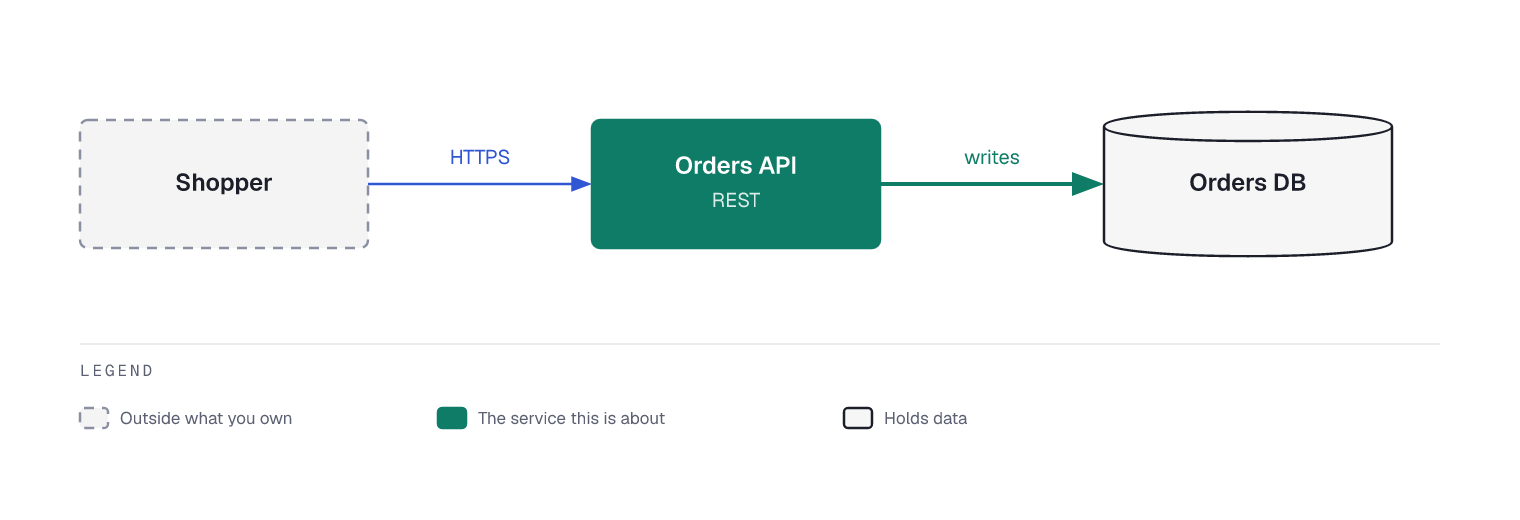
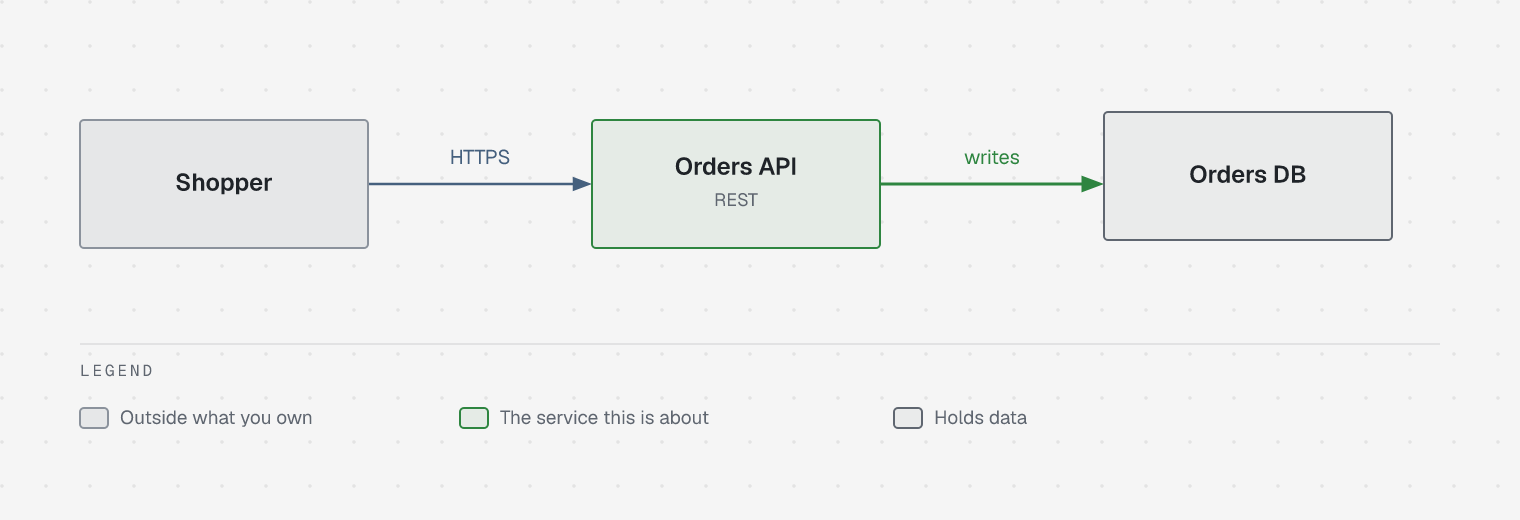
After merging main: two more guide recipes stop writing white text on the focal box; README diagrams re-rendered in the new built-in look

diff --git a/guide/dependency.md b/guide/dependency.md
@@ -11,7 +11,7 @@ Shows what depends on what among packages, modules or services. Draw it when the
 - One box per package or service, never per file. `sub=` is its path (`packages/ui-kit`) or, for a third-party one, version and registry (`v3.23 · npm`). `tag=` is its kind (APP, SVC, PKG, EXT).
 - Styles: `node` for your own, `cloud` for third party, `focal` for the most used. Nothing else: a box that depends on nothing is shown by sitting on the lowest rank, not by a style (`store` means data, and many looks draw it as a cylinder).
 - Icons are optional here; `icon=` on the kind (`pod` or `service` for SVC, `bucket` for PKG, `cloud` for EXT) only if every box gets one.
-- Every box shows how many depend on it, in its top-right corner, including "0 in" on the apps: `rect "4 in" at <box right − 36>,<box top + 8> 28x12 radius=2 fill=none stroke=ink/0.4 sw=0.8 title.font=mono title.size=8 title.weight=400 overlap=ok`. These counts are why the diagram exists; do not leave them out. `overlap=ok` is needed because the chip sits on its box. On the `focal` box an outlined chip is unreadable: write the count as plain text instead, `text "4 in" at <box right − 22>,<box top + 17> style=small size=8 color=#ffffff anchor=middle`.
+- Every box shows how many depend on it, in its top-right corner, including "0 in" on the apps: `rect "4 in" at <box right − 36>,<box top + 8> 28x12 radius=2 fill=none stroke=ink/0.4 sw=0.8 title.font=mono title.size=8 title.weight=400 overlap=ok`. These counts are why the diagram exists; do not leave them out. `overlap=ok` is needed because the chip sits on its box. On the `focal` box keep the same chip with `stroke=accent/0.5`; only in a look that fills `focal` with solid accent is an outlined chip unreadable, and there write the count as plain text instead: `text "4 in" at <box right − 22>,<box top + 17> style=small size=8 color=#ffffff anchor=middle`.
 
 ## Arrows
 

diff --git a/guide/deployment.md b/guide/deployment.md
@@ -23,7 +23,7 @@ text "v2.4.1" at 240,336 style=small anchor=end
 ```
 
 - Host: 200 wide. Height 84 with one chip, plus 32 for each further chip. `tag=` is the kind of host (POD, VM, CDN, MANAGED). Leave the host's own text empty, or it is centred on top of the chips.
-- Icon: `icon=` names from `fastdraw sizes` (container, server, vm, database, bucket, gateway, cdn), a 20x20 `icon` shape at host x+12, top+28, one per host or none. The name starts at host x+40, baseline top+43. On a `focal` host the name is `color=#ffffff`.
+- Icon: `icon=` names from `fastdraw sizes` (container, server, vm, database, bucket, gateway, cdn), a 20x20 `icon` shape at host x+12, top+28, one per host or none. The name starts at host x+40, baseline top+43. On a `focal` host the name keeps the default ink on a pale fill (the built-in look); give it `color=#ffffff` only when the look fills `focal` with solid accent. `fastdraw check` warns when text cannot be read.
 - Chip: a `rect`, never `store` (that means data, and many looks draw it as a cylinder). 8px in from the host's sides, 24 high; the first starts 52px below the host's top, the next 32px lower. Name at chip x+8, version right-aligned at chip right−8, both with baseline 16px below the chip's top. Every chip has a version: the version is why it is drawn. `fill=paper` also reads on a `focal` host.
 - Copies: one host with a badge in its top-right corner, not one box per copy: the `rect "x3"` above, at hostright−36,hosttop+8. It needs `overlap=ok`.
 - Host styles: `node` for your own hosts, `cloud` for a hosted platform (managed databases and buckets too), `focal` for the one that matters (the single point of failure, or the new piece). Do not use `store` for a host: it means data, and in looks that draw it as a cylinder its tag is half hidden by the top.
